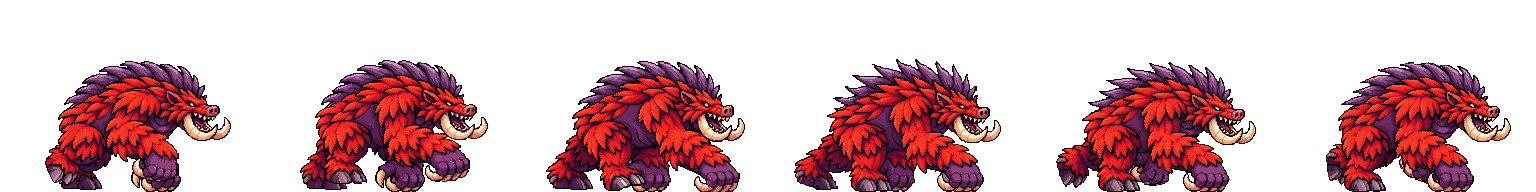
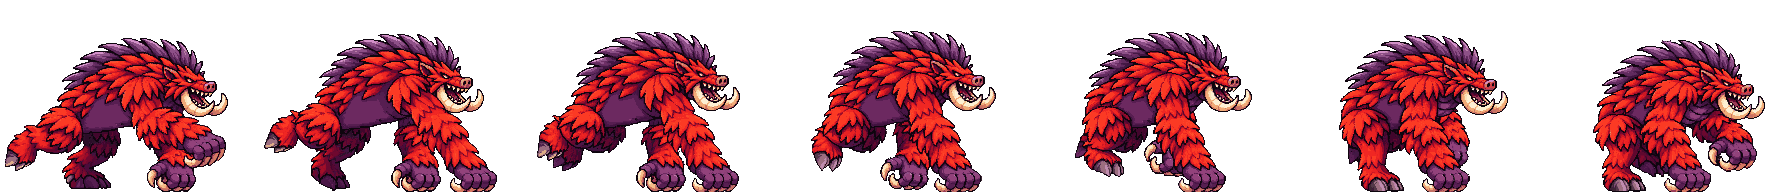
Redo Kaiban Stage 2 Stampede charge as a gorilla gallop
Both arms plant on the knuckles, the body vaults over them, the hind
legs swing through under the chest and the arms reach out again, with
the shoulders rocking high and the head and tusks low. Frames 3-9 of a
12-frame PixelLab generation, 7 frames at 14 fps (Stage 1's 0.5s stride).

Claude-Session: https://claude.ai/code/session_01SJ9dCw4zenmryTbtYAGcnc

diff --git a/src/presentation.ts b/src/presentation.ts
@@ -85,9 +85,10 @@ const KAIBAN_S2:Form={width:120,borrow:true,anims:{idle:{src:'assets/kaiban-s2-i
  // Ultimate (Stampede), gorilla-style. Roar: 256x256 (the base padded to 256 tall like the grab, so KB2_NATIVE lines up) because he
  // stands to full height. Rises onto the hind legs, fists to the chest, throws the head back and bellows (impact frame 5 = the bellow
  // blast, Stage 1's timing), then drops onto all four knuckles in a low head-down charge stance. 9 of a 16-frame generation (frames
- // 0-3,5,7,9-11). Pound: the charge loop, a head-down knuckle gallop with compact strides (frames 4-9 of a 12-frame generation, which
- // close onto each other; a full stretch at this scale runs off a 256px frame), 6 frames at 12 fps for Stage 1's 0.5s stride.
- ultRoar:{src:'assets/kaiban-s2-ult-roar.png',frames:9,fps:14,once:true,impact:5,...KB2_NATIVE},ultPound:{src:'assets/kaiban-s2-ult-pound.png',frames:6,fps:12,...KB2_NATIVE}}};
+ // 0-3,5,7,9-11). Pound: the charge loop, a gorilla gallop: both arms plant on the knuckles, the body vaults over them, the hind legs
+ // swing through under the chest and the arms reach out again, shoulders rocking high, head and tusks low (frames 3-9 of a 12-frame
+ // generation, frame 9 running back into 3), 7 frames at 14 fps for Stage 1's 0.5s stride.
+ ultRoar:{src:'assets/kaiban-s2-ult-roar.png',frames:9,fps:14,once:true,impact:5,...KB2_NATIVE},ultPound:{src:'assets/kaiban-s2-ult-pound.png',frames:7,fps:14,...KB2_NATIVE}}};
 export const SPRITES:Record<string,Form&{stages?:Record<number,Form>}>={
  Mogurodon:{width:120,anims:{idle:{src:'assets/mogurodon-idle.png',frames:8,fps:8,...S2_NATIVE},walk:{src:'assets/mogurodon-walk.png',frames:8,fps:10,...S2_NATIVE},
   // Stage 2 (the base form): every strip generated from the native-resolution base (S2_NATIVE), 256x192 except the 256x256 climb.

diff --git a/README.md b/README.md
@@ -59,7 +59,7 @@ Score is earned points minus actual HP damage penalty, including healed damage. 
 
 **Kaiban moves (`src/game.ts`, tuning in `COMBAT`):** *Debris Shotgun* (L on the ground): the scoop strip plays and on its impact frame (frame 5 standing, 4 crouched) `debrisCount` rock chunks fan out from the tusks, from flat and fast (`debrisAngle[0]`, `debrisSpeed[1]`) to high and lobbed, under `debrisGravity`. Each chunk is a projectile that stops on the first target it meets (buildings, troops, aircraft, vehicles, growths, the rival, the stronghold crystal, interceptable enemy shots), so point-blank most of the fan lands on one target (6 x `debrisDamage`) while at range it spreads out or sails over; chunks crumble on the street, so the range is short. Speeds and lifetime grow with sqrt(stage scale) like the Tremor Slam; `debrisCooldown` replaces the ranged cooldown. Airborne or clinging he fires the shared single shot. *Stampede* (U): the roar strip plays, and on its impact frame a short bellow blast (`bellowRange`/`bellowDamage`, Ultimate waves) knocks back what is close. When the roar ends he charges the way he faces, `stampedeReach` out (shorter than Seismic Rupture's `ultimateRange`) and back to where he started, at whatever speed fills the rest of the Ultimate, with gravity on and no building collision; he turns early at the world edge. Every building his body (plus a little in front) touches is destroyed outright, landmarks included: tall ones topple the way he is charging, the facade blows out ahead of him at three heights, with `stampedeCrunch` seconds of hitstop and heavy shake. Troops, vehicles, growths, the rival and the stronghold crystal take `stampedeDamage` as Ultimate damage once per pass, with `stampedeKnockback`; enemy shots in the way are destroyed. Once the Ultimate ends, anything still standing pushes him out as usual. Both are covered by `tests/kaiban-moves.test.ts`.
 
-**Kaiban Stage 2 art (in progress, registered as `stages[2]` and reused for `stages[3]`):** `kaiban-s2.png` is a 200x135 base at x=28 (scale 200/256, anchor 128), with `kaiban-s2-idle`/`kaiban-s2-walk` 8-frame loops and the climb set. The light combo is gorilla-style overhead punching, 8-frame 256x192 strips generated with PixelLab from the base shifted 24px left (sprite at x=4, so draw with scale 200/256, anchor 4+128*200/256 = 104) so the forward slams stay in the frame, each ending on that base pose: `kaiban-s2-light1` rears up, swings the near fist overhead and hammers it into the street in front of the snout (impact arc on frame 3, 24 fps); `kaiban-s2-light2` keeps the near fist planted while the far fist comes up behind the head and drops in front of it (dust burst on frame 5, 21 fps; seed 7, the default seed left the arm floating over the back); `kaiban-s2-light3` stands up on the hind legs and double-fist smashes both fists down (dust and streaks on frame 5, 20 fps). Each strip got `fill_pinholes.py`, `remove_specks.py` (MAX 40) and the trailing dust bits off the last frame. The heavy is a tusk uppercut, keeping Stage 1's gore rather than repeating light3's fist smash: one 16-frame generation (seed 7) from the same left-shifted base, ending on it, is cut into `kaiban-s2-heavy-rear` (frames 0-4: hunches low with both fists cocked back, 5 frames at 20 fps) and `kaiban-s2-heavy-slam` (frames 9-15 plus the base: lunging tusk uppercut, slash arc on the first three frames, 8 frames at 16 fps), and `kaiban-s2-heavy-hold` is a 4-frame shudder loop (with breath puffs, 10 fps) generated from the rear's last frame. Timing matches the Stage 1 heavy, so combat is unchanged; rear/slam got `fill_pinholes.py` and `remove_specks.py` MAX 40, the hold MAX 4 so the breath puffs survive. The ranged `kaiban-s2-ranged-stand` (same shifted base, closed on it, seed 7) is a gorilla underhand scoop for the Debris Shotgun: a short lean, then he rises and digs both fists into the street (rubble in the fists on frame 4), heaves them up and forward to fling it on impact frame 5 (18 fps, Stage 1's timing), follows through and settles onto all fours; every detached rock on frames 5-7 was erased (largest shape kept) since the game draws the projectiles, then `fill_pinholes.py` and `remove_specks.py` (MAX 40). The crouched shot still borrows Stage 1's. Grab/carry/throw are 256x256 strips (the base padded to 256 tall with the feet on the bottom row, so `KB2_NATIVE` still lines up) since the overhead lift reaches the top of the frame, all generated without any object: `kaiban-s2-grab` (9 frames, 22 fps, seed 0) dips with the fists at the street, rises onto the hind legs and presses both fists straight up overhead; `kaiban-s2-carry` (4-frame loop from the grab's last frame, closed on it) stands upright straining with the fists up; `kaiban-s2-carry-walk` (8-frame loop, closed the same way) lumbers forward upright on the hind legs; `kaiban-s2-throw` (8 of 9 generated frames, the near-duplicate frame 1 dropped so the swing arcs land on frame 1 as the prop launches on the key press) whips both arms forward and down and drops back onto all fours, ending on the base pose. `hold` points: frames 0-3 of the grab keep the prop on the street in front of the near fist, then they sit on top of the fists. Each strip got `fill_pinholes.py` and `remove_specks.py` (MAX 40). The climb set (256x256, generated from the base dropped into a 256x256 frame) clings upright with the fists gripping the wall line at frame x=168 (the 24-unit hitbox edge at this scale), feet braced on the wall and the snout and tusks up: `kaiban-s2-climb-grab` rears up and jumps onto the wall (seed 5; earlier prompts reached the arms straight out, too wide for the wall line, or hid the face behind an overhead arm), `kaiban-s2-climb` is a hand-over-hand loop closed on the cling pose, `kaiban-s2-climb-punch` draws the near fist back off the wall and drives it in with a smear on impact frame 5, and `kaiban-s2-climb-mantle` hauls over onto the roof and ends on the base pose. PixelLab painted a flat tan wall on the grab, erased by its wall-only colours plus the edge line and band pixels not connected to the body, with the claw shading (which shares the wall's tans) restored left of each row's rightmost body pixel; the later strips drew no wall. The cling pose was generated 37px up the wall, so the climb and punch frames are shifted 53px left onto the wall line and 21px down (as far as the lowest climb step allows), the grab eases into that from the unshifted base pose, and the mantle starts a further 24px back (the game's 0.3-body-width roof slide) easing to 0 by its last frame. Frame counts and fps match Stage 1; every strip got `fill_pinholes.py` and `remove_specks.py` (MAX 40). The Stampede Ultimate is gorilla-style too: `kaiban-s2-ult-roar` (256x256, the base padded to 256 tall like the grab so `KB2_NATIVE` lines up) rises onto the hind legs, fists to the chest, throws the head back and bellows on impact frame 5 (the bellow blast), then drops onto all four knuckles in a low head-down charge stance (9 of a 16-frame generation, frames 0-3,5,7,9-11, 14 fps); `kaiban-s2-ult-pound` is the charge loop, a head-down knuckle gallop with compact strides (frames 4-9 of a 12-frame generation from the native base, seed 3, which close onto each other; a full stretch at this scale ran off the 256px frame), 6 frames at 12 fps for Stage 1's 0.5s stride. Both got `fill_pinholes.py` and `remove_specks.py` (MAX 40). The Stage 2 form (`KAIBAN_S2` in `src/presentation.ts`, anchors `KB2_NATIVE`/`KB2_LEFT`) sets `borrow: true`: any move it has no strip for plays the Stage 1 strip instead of the form's idle, so every move animates while the set is filled in (the art mixes Stage 1 and Stage 2 designs until then). Stage 3 points at the same form until it gets its own art. Add new Stage 2 strips to `KAIBAN_S2.anims`.
+**Kaiban Stage 2 art (in progress, registered as `stages[2]` and reused for `stages[3]`):** `kaiban-s2.png` is a 200x135 base at x=28 (scale 200/256, anchor 128), with `kaiban-s2-idle`/`kaiban-s2-walk` 8-frame loops and the climb set. The light combo is gorilla-style overhead punching, 8-frame 256x192 strips generated with PixelLab from the base shifted 24px left (sprite at x=4, so draw with scale 200/256, anchor 4+128*200/256 = 104) so the forward slams stay in the frame, each ending on that base pose: `kaiban-s2-light1` rears up, swings the near fist overhead and hammers it into the street in front of the snout (impact arc on frame 3, 24 fps); `kaiban-s2-light2` keeps the near fist planted while the far fist comes up behind the head and drops in front of it (dust burst on frame 5, 21 fps; seed 7, the default seed left the arm floating over the back); `kaiban-s2-light3` stands up on the hind legs and double-fist smashes both fists down (dust and streaks on frame 5, 20 fps). Each strip got `fill_pinholes.py`, `remove_specks.py` (MAX 40) and the trailing dust bits off the last frame. The heavy is a tusk uppercut, keeping Stage 1's gore rather than repeating light3's fist smash: one 16-frame generation (seed 7) from the same left-shifted base, ending on it, is cut into `kaiban-s2-heavy-rear` (frames 0-4: hunches low with both fists cocked back, 5 frames at 20 fps) and `kaiban-s2-heavy-slam` (frames 9-15 plus the base: lunging tusk uppercut, slash arc on the first three frames, 8 frames at 16 fps), and `kaiban-s2-heavy-hold` is a 4-frame shudder loop (with breath puffs, 10 fps) generated from the rear's last frame. Timing matches the Stage 1 heavy, so combat is unchanged; rear/slam got `fill_pinholes.py` and `remove_specks.py` MAX 40, the hold MAX 4 so the breath puffs survive. The ranged `kaiban-s2-ranged-stand` (same shifted base, closed on it, seed 7) is a gorilla underhand scoop for the Debris Shotgun: a short lean, then he rises and digs both fists into the street (rubble in the fists on frame 4), heaves them up and forward to fling it on impact frame 5 (18 fps, Stage 1's timing), follows through and settles onto all fours; every detached rock on frames 5-7 was erased (largest shape kept) since the game draws the projectiles, then `fill_pinholes.py` and `remove_specks.py` (MAX 40). The crouched shot still borrows Stage 1's. Grab/carry/throw are 256x256 strips (the base padded to 256 tall with the feet on the bottom row, so `KB2_NATIVE` still lines up) since the overhead lift reaches the top of the frame, all generated without any object: `kaiban-s2-grab` (9 frames, 22 fps, seed 0) dips with the fists at the street, rises onto the hind legs and presses both fists straight up overhead; `kaiban-s2-carry` (4-frame loop from the grab's last frame, closed on it) stands upright straining with the fists up; `kaiban-s2-carry-walk` (8-frame loop, closed the same way) lumbers forward upright on the hind legs; `kaiban-s2-throw` (8 of 9 generated frames, the near-duplicate frame 1 dropped so the swing arcs land on frame 1 as the prop launches on the key press) whips both arms forward and down and drops back onto all fours, ending on the base pose. `hold` points: frames 0-3 of the grab keep the prop on the street in front of the near fist, then they sit on top of the fists. Each strip got `fill_pinholes.py` and `remove_specks.py` (MAX 40). The climb set (256x256, generated from the base dropped into a 256x256 frame) clings upright with the fists gripping the wall line at frame x=168 (the 24-unit hitbox edge at this scale), feet braced on the wall and the snout and tusks up: `kaiban-s2-climb-grab` rears up and jumps onto the wall (seed 5; earlier prompts reached the arms straight out, too wide for the wall line, or hid the face behind an overhead arm), `kaiban-s2-climb` is a hand-over-hand loop closed on the cling pose, `kaiban-s2-climb-punch` draws the near fist back off the wall and drives it in with a smear on impact frame 5, and `kaiban-s2-climb-mantle` hauls over onto the roof and ends on the base pose. PixelLab painted a flat tan wall on the grab, erased by its wall-only colours plus the edge line and band pixels not connected to the body, with the claw shading (which shares the wall's tans) restored left of each row's rightmost body pixel; the later strips drew no wall. The cling pose was generated 37px up the wall, so the climb and punch frames are shifted 53px left onto the wall line and 21px down (as far as the lowest climb step allows), the grab eases into that from the unshifted base pose, and the mantle starts a further 24px back (the game's 0.3-body-width roof slide) easing to 0 by its last frame. Frame counts and fps match Stage 1; every strip got `fill_pinholes.py` and `remove_specks.py` (MAX 40). The Stampede Ultimate is gorilla-style too: `kaiban-s2-ult-roar` (256x256, the base padded to 256 tall like the grab so `KB2_NATIVE` lines up) rises onto the hind legs, fists to the chest, throws the head back and bellows on impact frame 5 (the bellow blast), then drops onto all four knuckles in a low head-down charge stance (9 of a 16-frame generation, frames 0-3,5,7,9-11, 14 fps); `kaiban-s2-ult-pound` is the charge loop, a gorilla gallop: both arms plant on the knuckles, the body vaults over them, the hind legs swing through under the chest and the arms reach out again, shoulders rocking high and head low (frames 3-9 of a 12-frame generation from the native base, seed 1, frame 9 running back into 3; prompted with the legs landing close behind the hands, since a long stretched stride ran off the 256px frame), 7 frames at 14 fps for Stage 1's 0.5s stride. Both got `fill_pinholes.py` and `remove_specks.py` (MAX 40). The Stage 2 form (`KAIBAN_S2` in `src/presentation.ts`, anchors `KB2_NATIVE`/`KB2_LEFT`) sets `borrow: true`: any move it has no strip for plays the Stage 1 strip instead of the form's idle, so every move animates while the set is filled in (the art mixes Stage 1 and Stage 2 designs until then). Stage 3 points at the same form until it gets its own art. Add new Stage 2 strips to `KAIBAN_S2.anims`.
 
 **Per-stage forms:** `SPRITES[name]` is the base form (for Mogurodon, the art above is its Stage 2 design, also used for Stage 3); `stages[n]` overrides it for one stage. Inside a stage form a missing strip falls back to that form's own `idle`, while gameplay timing (`animDuration`/`animImpact`) borrows the base strip's, so combat is unchanged until a form's strips are animated. Mogurodon Stage 1 (`assets/mogurodon-s1.png`) is the transparent render keyed with `tools/key_render.py` (grid 9.30x9.095 px per art pixel): a 151x113 native sprite at x=52, feet on the bottom row of a 256x192 frame. All 25 Stage 1 strips are generated from it with PixelLab and registered with `S1_NATIVE` (scale 151/256, anchor 127.5); frame counts, fps and impact frames match the previous art. The old padded bases (`mogurodon-s1-pad.png`, `mogurodon-s3-pad.png`) and `S1_PAD` are gone. Moves: idle and walk loops; light combo near (left) paw swipe, far (right) paw swipe (prompted with the near leg pinned so the far paw rises behind the head and slashes across) and lunge-bite; heavy rear/slam cut from one 16-frame generation (rear 0-4, slam 8-15) plus a hold loop from the peak; no tail, so the ranged shot arches the back like a hissing cat with the quills bristling (standing and crouched); crouch down/loop/up; jump rise, a 4-frame airborne gallop (frames 1-4 of its generation) and landing; Seismic Rupture howl (9 of 17 frames, 0,2,3,6,9,12,13,14,16, crash with the dust burst on impact frame 5) and a two-paw pound loop; climb with the gripping paws on the wall line at frame x=158 (PixelLab painted a thin brown post at x=215, erased with `post.py`-style column detection since the paws cut it into short pieces; the mantle starts 18px back and eases to 0); grab, carry and carry-walk with per-frame `hold` points (grab frame 7 holds at the forward paws mid-lift) and a throw generated without any object. Gold eye restored against the base plus crouch, heavy-peak and Ultimate-pose references; the reared carry pose tips the head back behind the arms, so carry frames have no eye. Add strips to `stages[1].anims`. Mogurodon Stage 3 (`assets/mogurodon-s3.png`) is the transparent render keyed with `tools/key_render.py`, which measures the render's real pixel grid (about 8.055x7.77 px per art pixel, offset) and keys by alpha, so the sprite keeps its outline and comes out at native resolution: 173x134 at x=41, feet on the bottom row of a 256x192 frame. Every Stage 3 strip is generated from it with PixelLab and registered with `S3_NATIVE` (scale 173/256, anchor 127.5) so it draws at the old width and foot position; frame counts, fps and impact frames match the previous art, so combat timing is unchanged. (The previous base was keyed from a black-background render by brightness on an assumed 8px grid, which ate the outline and joint creases and doubled pixels unevenly; every strip inherited the gaps.) Idle and walk are loops closed with the base as first and last frame. Light combo: near-arm (left) strike with a short pink streak, swipe with the other arm: the arm hanging against the chest winds back behind the body, arcs over and slashes forward past the snout with a pink arc while the leading arm stays put (generated with the base as the last frame so it settles back; earlier versions swung the leading arm again with a floating extra fist behind the head), low lunge-bite. Heavy: one 17-frame rear-and-slam generation cut into `heavy-rear` (frames 0-4) and `heavy-slam` (frames 8-14 and 16: crash with dust and crystal shards, settle), plus a 4-frame `heavy-hold` from the peak pose (re-rolled: a "trembling" prompt scattered dark specks). The reared peak touches the top of the 192px frame. Jump: rise, 4-frame air loop from its last frame and landing, bottom-aligned, landing debris stripped. Ranged: tail whips over the back; the detached shard PixelLab drew (it flew backwards) is erased since the game draws the projectile; the crouched shot flicks the tail while staying flat. Crouch: crouch-down, breathing loop from its last frame, crouch-up = crouch-down reversed. Climb (256x256): PixelLab paints a wall even when told not to; `tools/remove_wall.py` and a wall-line pass erase it, and the wall frames are shifted so the gripping claws sit on the wall line at frame x=162 (hitbox edge, 24 world units from the origin). The mantle starts a further 21px back (the game slides him 0.3 body widths onto the roof) and eases to 0 by its base-pose last frame. Ultimate: the roar is 8 of a 17-frame generation (frames 0,1,2,4,9,11,13,16) so the crash into the crystal eruption lands on impact frame 5; the 16-frame pound loop slams the near claw then the far claw with dust and sparks. Grab/carry/throw: the grab scoops then rears with both claws overhead (a rock PixelLab drew in frame 1 is erased); carry and carry-walk loop from its last frame and the throw ends on the base pose. Grab, carry and carry-walk have per-frame `hold` points measured on the fists. PixelLab washes the gold eye out after frame 0, so `tools/fix_eye.py` restores it against the base and, for frames it cannot match, against wide-search references for the crouch, carry and heavy-peak poses; `--max-err 9000` skips frames where the head is turned or hidden (grab scoop frames 2-5, the upright roar, the head-down pound loop). Every strip then gets `fill_pinholes.py` and `remove_specks.py`. Request PixelLab frame counts in multiples of 4 (the strip gets the input frame plus that many). Add further strips to `stages[3].anims`. `tools/prep_form_base.py` keys a black-background render and fits it into a frame for that.
 
